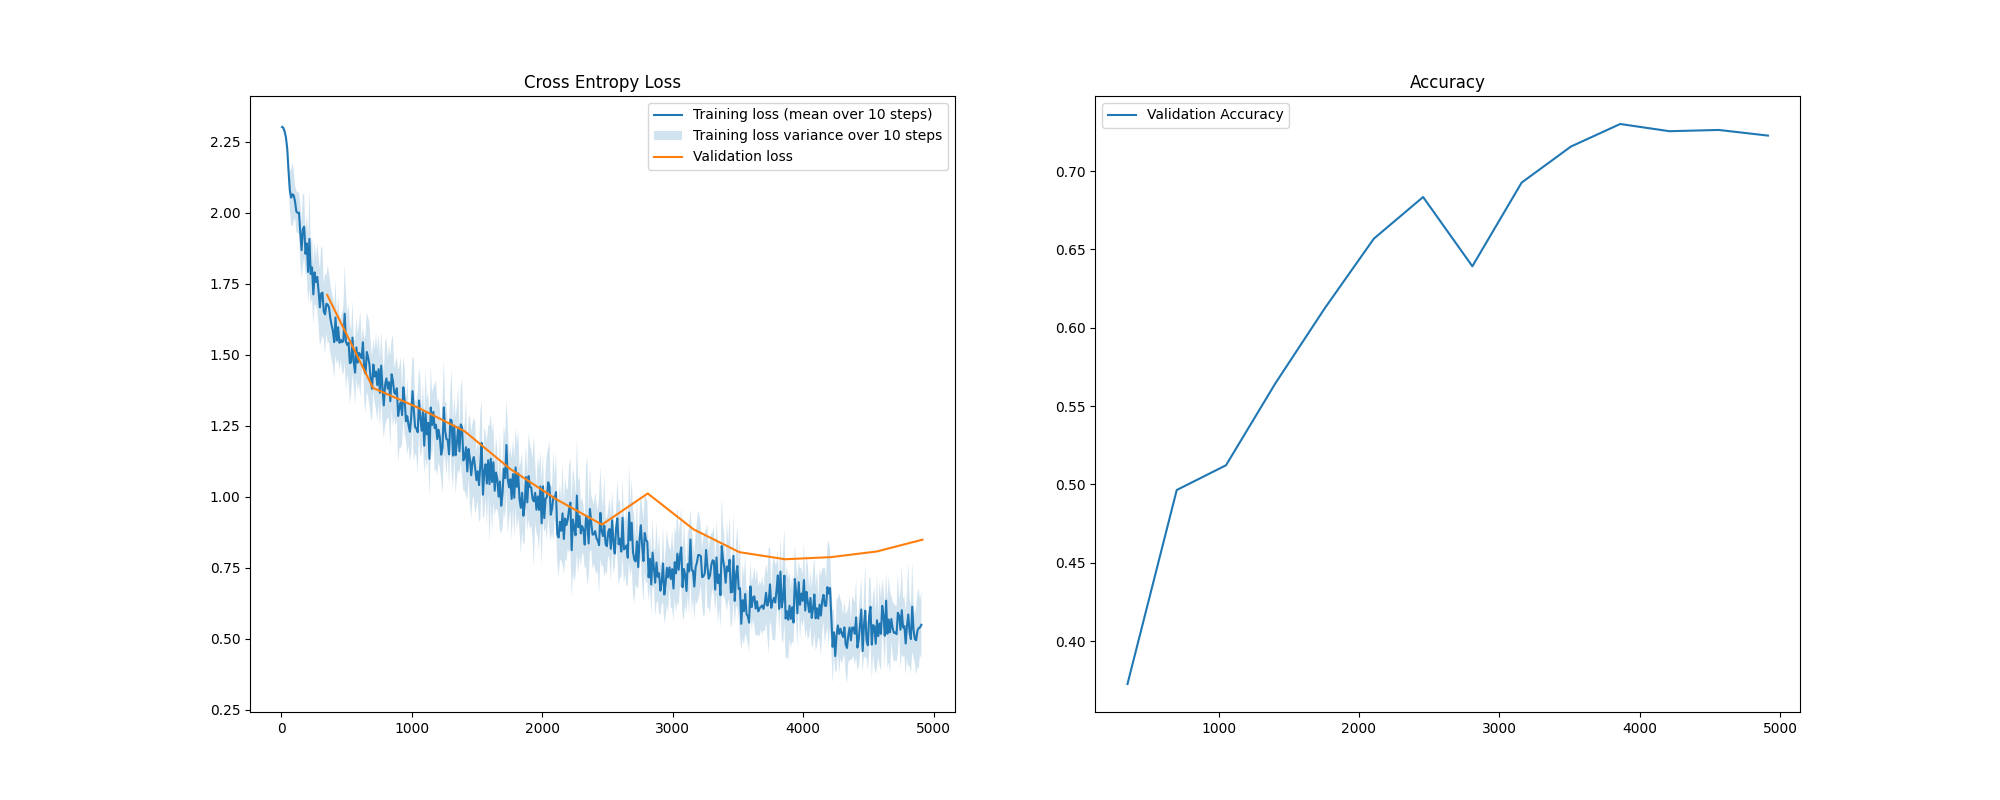
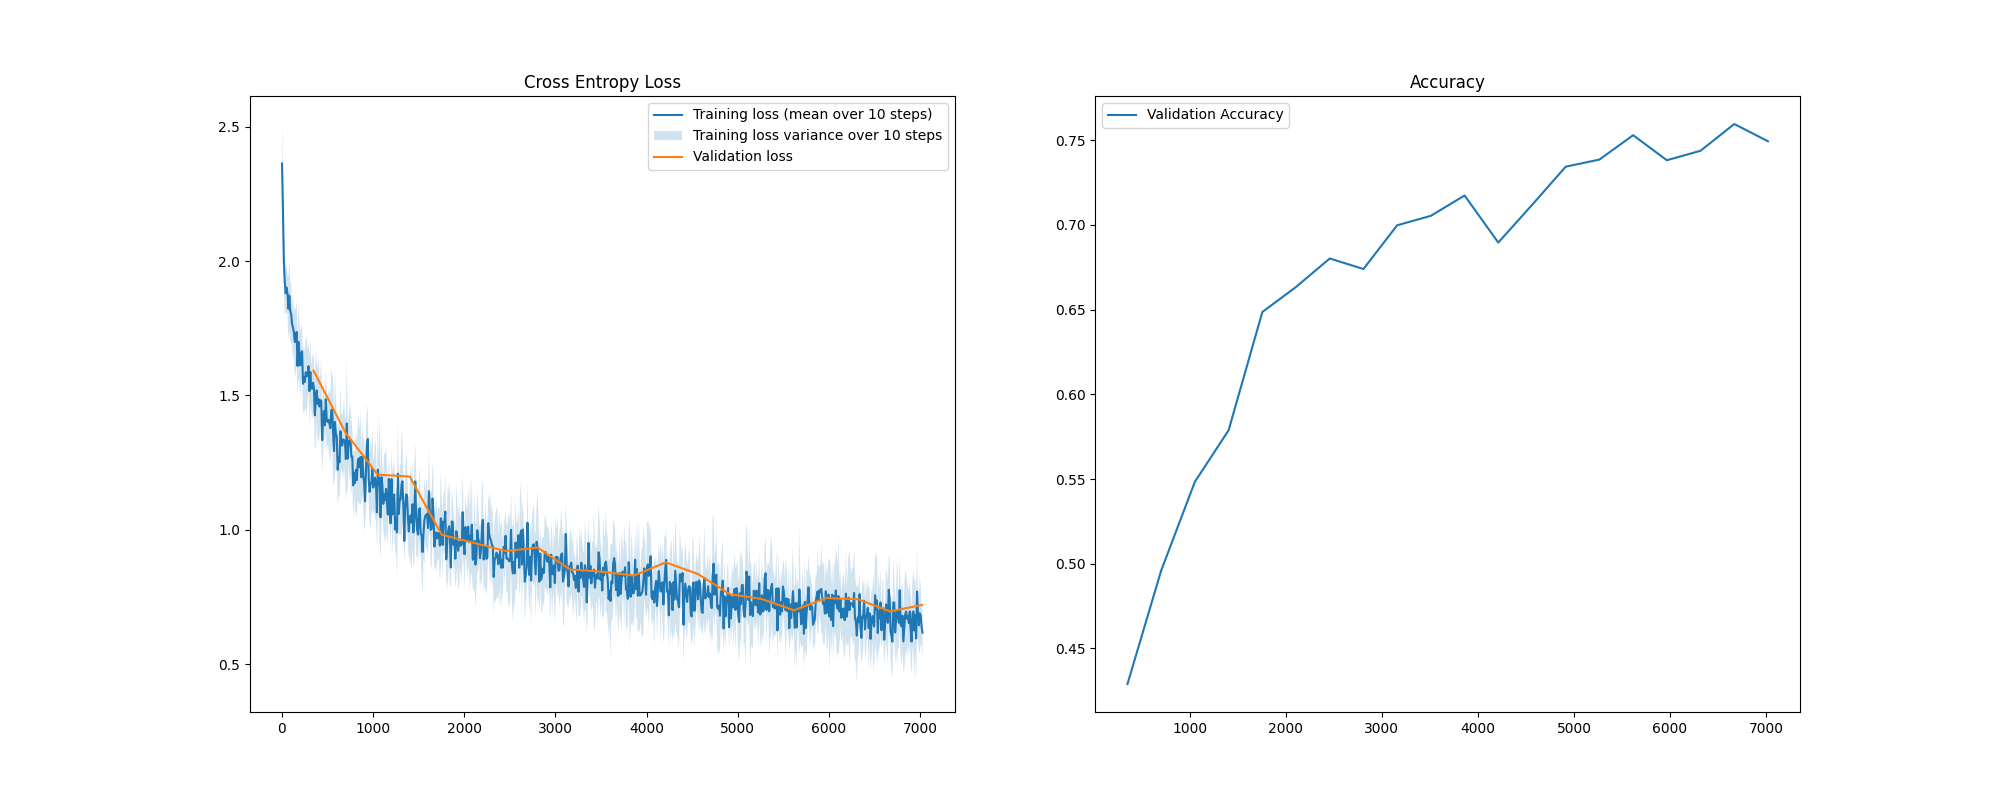
task 3 work

diff --git a/assignment3/task3.py b/assignment3/task3.py
@@ -1,0 +1,153 @@
+import pathlib
+import matplotlib.pyplot as plt
+import utils
+from torch import nn
+from dataloaders import load_cifar10
+from trainer import Trainer, compute_loss_and_accuracy
+
+
+class ImageClassifier(nn.Module):
+    def __init__(self, image_channels, num_classes):
+        """
+        Is called when model is initialized.
+        Args:
+            image_channels. Number of color channels in image (3)
+            num_classes: Number of classes we want to predict (10)
+        """
+        super().__init__()
+        self.num_classes = num_classes
+        # Define the convolutional layers
+        self.feature_extractor = nn.Sequential(
+            nn.Conv2d(
+                in_channels=image_channels, #3
+                out_channels=32,
+                kernel_size=3,
+                stride=1,
+                padding=1,
+            ),
+            nn.BatchNorm2d(32),
+            nn.ReLU(),
+            nn.Conv2d(
+                in_channels=32, 
+                out_channels=64, 
+                kernel_size=3,
+                stride=1,
+                padding=1,
+            ),
+            nn.BatchNorm2d(64),
+            nn.MaxPool2d(kernel_size=2, stride=2), # 16*16 output
+            nn.ReLU(),
+            nn.Conv2d(
+                in_channels=64,
+                out_channels=128,
+                kernel_size=5,
+                stride=1,
+                padding=2,
+            ),
+            nn.BatchNorm2d(128),
+            nn.MaxPool2d(kernel_size=2, stride=2), # 8*8 output
+            nn.ReLU(),
+            nn.Conv2d(
+                in_channels=128,
+                out_channels=64,
+                kernel_size=5,
+                stride=1,
+                padding=2,
+            ),
+            nn.BatchNorm2d(64),
+            nn.MaxPool2d(kernel_size=2, stride=2), # 8*8 output
+            nn.ReLU(),
+        )
+        # The output of feature_extractor will be [batch_size, num_filters, 16, 16]
+        self.num_output_features = 4 * 4 * 64  # 32 * 32 * 32 
+        # Initialize our last fully connected layer
+        # Inputs all extracted features from the convolutional layers
+        # Outputs num_classes predictions, 1 for each class.
+        # There is no need for softmax activation function, as this is
+        # included with nn.CrossEntropyLoss
+        self.classifier = nn.Sequential(
+            nn.Flatten(),
+            nn.Linear(self.num_output_features, 64),
+            nn.BatchNorm1d(64),
+            nn.ReLU(),
+            nn.Linear(64, 64),
+            nn.BatchNorm1d(64),
+            nn.ReLU(),
+            nn.Linear(64, num_classes),
+        )
+
+    def forward(self, x):
+        """
+        Performs a forward pass through the model
+        Args:
+            x: Input image, shape: [batch_size, 3, 32, 32]
+        """
+        batch_size = x.shape[0]
+        features = self.feature_extractor(x)
+        out = self.classifier(features)
+
+        expected_shape = (batch_size, self.num_classes)
+        assert out.shape == (
+            batch_size,
+            self.num_classes,
+        ), f"Expected output of forward pass to be: {expected_shape}, but got: {out.shape}"
+        return out
+
+
+def create_plots(trainer: Trainer, name: str):
+    plot_path = pathlib.Path("plots")
+    plot_path.mkdir(exist_ok=True)
+    # Save plots and show them
+    plt.figure(figsize=(20, 8))
+    plt.subplot(1, 2, 1)
+    plt.title("Cross Entropy Loss")
+    utils.plot_loss(
+        trainer.train_history["loss"], label="Training loss", npoints_to_average=10
+    )
+    utils.plot_loss(trainer.validation_history["loss"], label="Validation loss")
+    plt.legend()
+    plt.subplot(1, 2, 2)
+    plt.title("Accuracy")
+    utils.plot_loss(trainer.validation_history["accuracy"], label="Validation Accuracy")
+    plt.legend()
+    plt.savefig(plot_path.joinpath(f"{name}_plot.png"))
+    plt.show()
+
+
+
+
+def main():
+    # Set the random generator seed (parameters, shuffling etc).
+    # You can try to change this and check if you still get the same result!
+    utils.set_seed(0)
+    print(f"Using device: {utils.get_device()}")
+    epochs = 10
+    batch_size = 64
+    learning_rate = 5e-2
+    early_stop_count = 4
+    dataloaders = load_cifar10(batch_size)
+    model = ImageClassifier(image_channels=3, num_classes=10)
+    trainer = Trainer(
+        batch_size, learning_rate, early_stop_count, epochs, model, dataloaders
+    )
+    print("Training begins...")
+    trainer.train()
+    create_plots(trainer, "task2")
+
+    # Get/calculate accuracies
+    test_data = trainer.dataloader_test
+    train_data = trainer.dataloader_train
+    val_data = trainer.dataloader_val
+
+    test_accuracy = compute_loss_and_accuracy(dataloader=test_data, model=model, loss_criterion=trainer.loss_criterion)
+    print("Test accuracy:", test_accuracy)
+
+    validation_accuracy = compute_loss_and_accuracy(dataloader=val_data, model=model, loss_criterion=trainer.loss_criterion)
+    print("Validation accuracy:", validation_accuracy)
+
+    train_accuracy = compute_loss_and_accuracy(dataloader=train_data, model=model, loss_criterion=trainer.loss_criterion)
+    print("Train accuracy:", train_accuracy)
+
+
+if __name__ == "__main__":
+    main()

diff --git a/assignment3/dataloaders.py b/assignment3/dataloaders.py
@@ -1,5 +1,6 @@
 from torchvision import transforms, datasets
 from torch.utils.data.sampler import SubsetRandomSampler
+from torchvision.transforms import v2
 import torch
 import typing
 import numpy as np
@@ -8,6 +9,9 @@ np.random.seed(0)
 
 mean = (0.5, 0.5, 0.5)
 std = (.25, .25, .25)
+
+mean_gray = (0.5, )
+std_gray = (0.5, )
 
 
 def get_data_dir():
@@ -25,20 +29,38 @@ def load_cifar10(batch_size: int, validation_fraction: float = 0.1
         transforms.ToTensor(),
         transforms.Normalize(mean, std),
     ])
+
+    transform_train_augmented = transforms.Compose([
+        transforms.RandomCrop(32, padding=4),
+        transforms.RandomHorizontalFlip(),
+        transforms.ToTensor(),
+        transforms.Normalize(mean, std),
+    ])
+
+    transform_train2 = transforms.Compose([
+        transforms.RandomHorizontalFlip(), # Randomly flips the image horizontally
+        transforms.RandomCrop(32, padding=4), # Pads the image and randomly crops it back to its original size
+        # transforms.RandomRotation(10),
+        # transforms.ColorJitter(brightness=0.1, contrast=0.1, saturation=0.1, hue=0.1), # Randomly changes hue, saturation, brightness, and contrast
+        transforms.ToTensor(),
+        transforms.Normalize(mean, std),
+    ])
+
     transform_test = transforms.Compose([
         transforms.ToTensor(),
-        transforms.Normalize(mean, std)
+        transforms.Normalize(mean, std),
     ])
     data_train = datasets.CIFAR10(get_data_dir(),
                                   train=True,
                                   download=True,
-                                  transform=transform_train)
+                                  transform=transform_train2)
 
     data_test = datasets.CIFAR10(get_data_dir(),
                                  train=False,
                                  download=True,
-                                 transform=transform_test)
+                                 transform=transform_train2)
 
+    
     indices = list(range(len(data_train)))
     split_idx = int(np.floor(validation_fraction * len(data_train)))
 

diff --git a/assignment3/task2.py b/assignment3/task2.py
@@ -26,8 +26,9 @@ class ExampleModel(nn.Module):
                 stride=1,
                 padding=2,
             ),
-            nn.ReLU(),
+            nn.BatchNorm2d(32),
             nn.MaxPool2d(kernel_size=2, stride=2),
+            nn.ReLU(),
             nn.Conv2d(
                 in_channels=32, 
                 out_channels=64, 
@@ -35,8 +36,9 @@ class ExampleModel(nn.Module):
                 stride=1,
                 padding=2,
             ),
-            nn.ReLU(),
+            nn.BatchNorm2d(64),
             nn.MaxPool2d(kernel_size=2, stride=2),
+            nn.ReLU(),
             nn.Conv2d(
                 in_channels=64,
                 out_channels=128,
@@ -44,8 +46,9 @@ class ExampleModel(nn.Module):
                 stride=1,
                 padding=2,
             ),
-            nn.ReLU(),
+            nn.BatchNorm2d(128),
             nn.MaxPool2d(kernel_size=2, stride=2),
+            nn.ReLU(),
         )
         # The output of feature_extractor will be [batch_size, num_filters, 16, 16]
         self.num_output_features = 4 * 4 * 128  # 32 * 32 * 32 
@@ -57,6 +60,7 @@ class ExampleModel(nn.Module):
         self.classifier = nn.Sequential(
             nn.Flatten(),
             nn.Linear(self.num_output_features, 64),
+            nn.BatchNorm1d(64),
             nn.ReLU(),
             nn.Linear(64, num_classes),
         )

diff --git a/assignment3/trainer.py b/assignment3/trainer.py
@@ -77,7 +77,7 @@ class Trainer:
         print(self.model)
 
         # Define our optimizer. SGD = Stochastich Gradient Descent
-        self.optimizer = torch.optim.SGD(self.model.parameters(),
+        self.optimizer = torch.optim.Adam(self.model.parameters(),
                                          self.learning_rate)
 
         # Load our dataset
